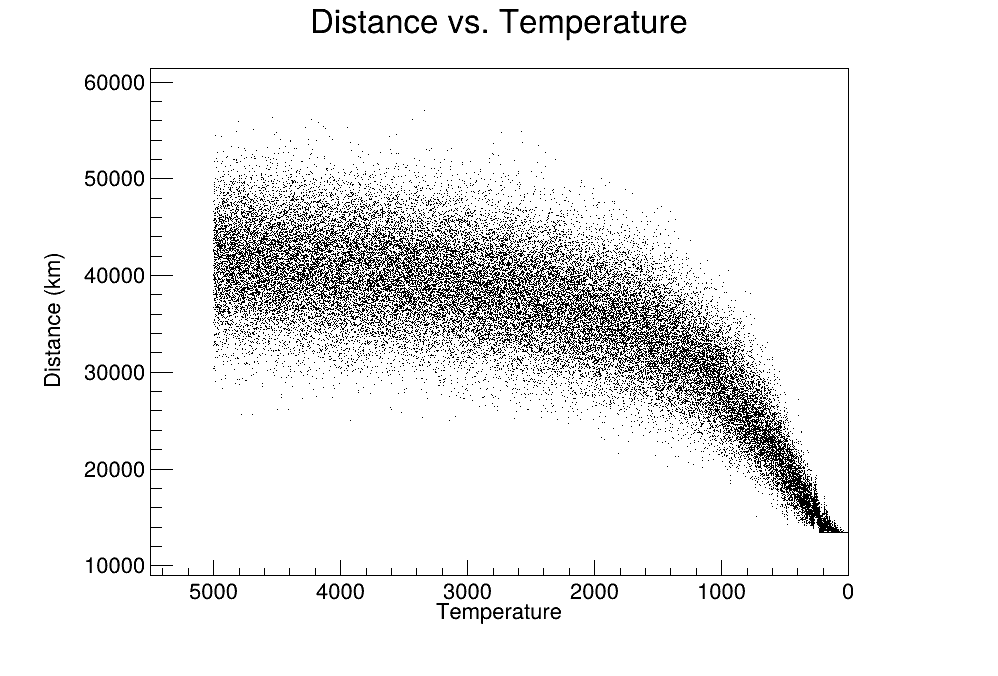
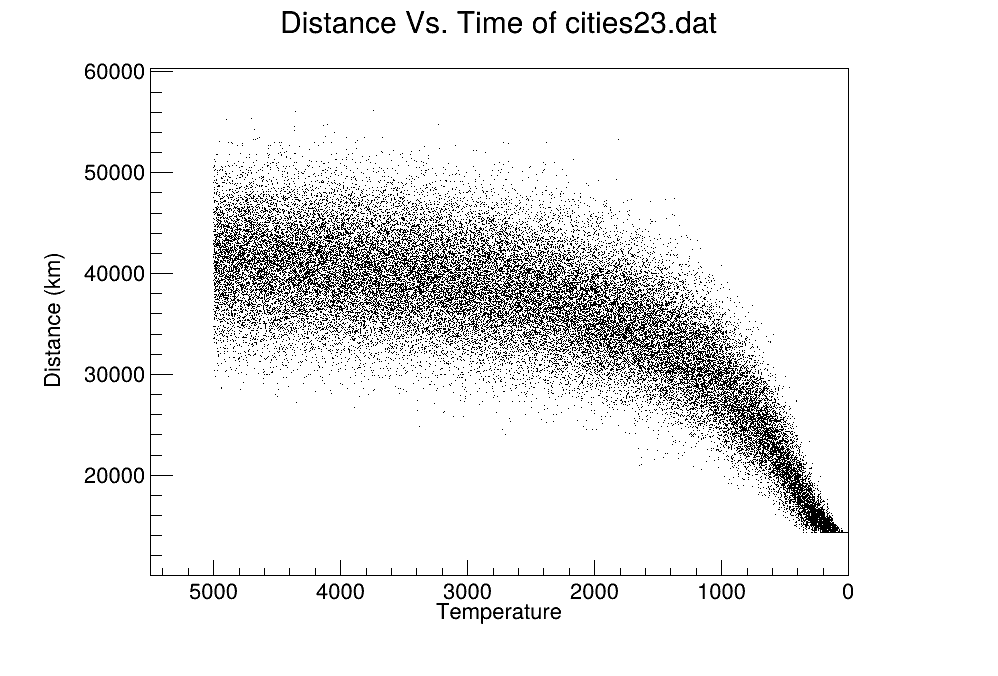
all functionality added. awaiting testing and final data runs

diff --git a/salesman.cpp b/salesman.cpp
@@ -283,6 +283,7 @@ int main(int argc, char *argv[]){
 
   printf("\nYou are running the %s algorithm with the following paramers:\nT0 = %d\nNumber of melting iterations = %d\nNumber of iterations per temperature = %d\nTarget distance = %d\n", algorithmType,(int) T0, (int) meltingIterations, (int) iterationsPerTemperature,(int) targetDistance);
 
+  string fileName = argv[1]; 
   int ncity=GetData(argv[1],cities);
   printf("Read %d cities from data file\n",ncity);
   printf("Distance of initially provided path: %lf\n", totalDistance(cities, ncity)); 
@@ -346,7 +347,9 @@ int main(int argc, char *argv[]){
   c->SetLeftMargin(0.15);
   c->SetRightMargin(0.15);
   c->SetBottomMargin(0.15);
-  g->SetTitle("Distance vs. Temperature");
+
+  string graphTitle = string("Distance Vs. Time of ") +  fileName; 
+  g->SetTitle(graphTitle.c_str());
   g->GetYaxis()->SetTitle("Distance (km)");
   g->GetYaxis()->CenterTitle();
   g->GetXaxis()->SetTitle("Temperature");
